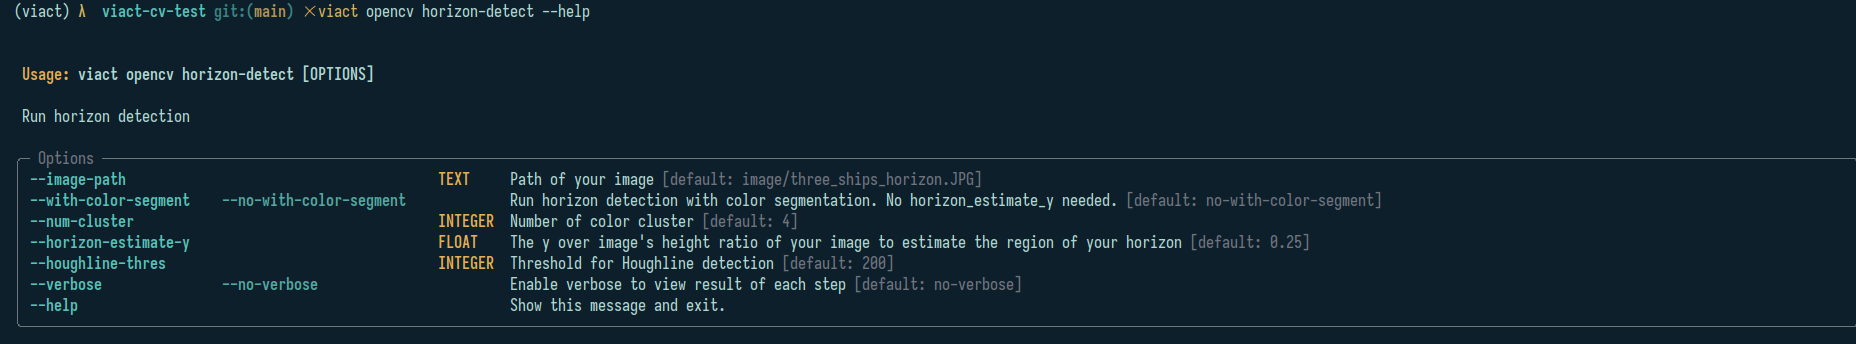
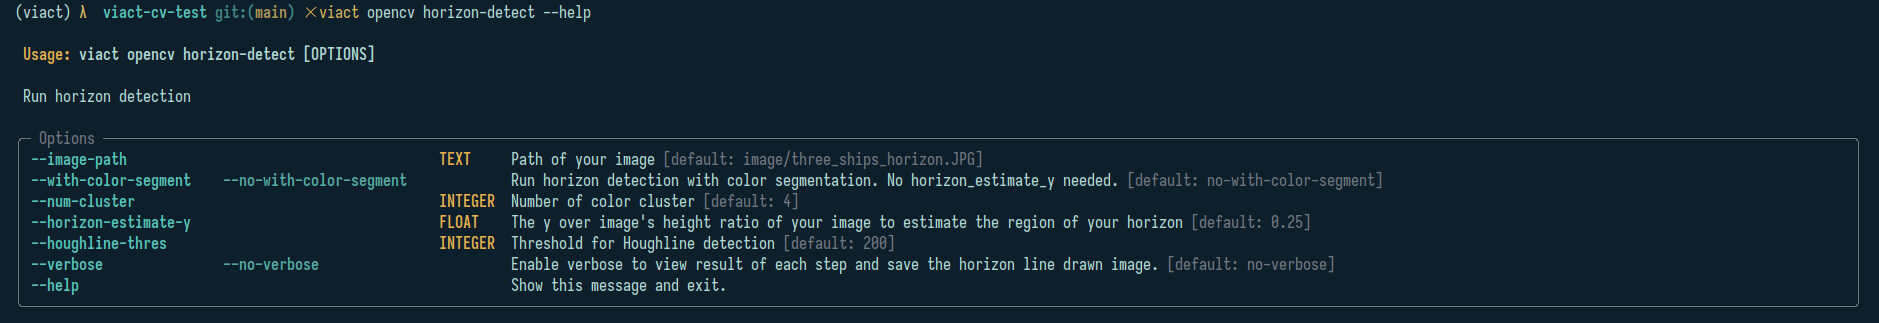
add readme

diff --git a/README.md b/README.md
@@ -1,1 +1,126 @@
 # viact-cv-test
+
+This repository contains the solution to the Computer Vision test from viAct.
+
+# Installation
+- To install the script, clone the repository, navigate to the `viact-cv-test` folder, and run the following command to install the script as a package:
+  
+    ```
+    pip install . 
+    ```
+
+- To view the help menu, run the `--help` option for each command, as shown in these images:
+  
+    ![Main menu help](image/docs/help-main.png "Main menu help")
+
+    ![Horizon detection command help](image/docs/help-horizon-detect.png "Horizon detection command help")
+
+    ![Ship detection command help](image/docs/help-ship-detect.png "Ship detection command help")
+
+    ![End-to-end detection help](image/docs/help-e2e-detect.png "End-to-end detection help")
+
+# Examples
+
+## With the provided image
+All default arguments are set to run on the provided image with minimal modifications.
+
+- **Detect horizon of the provided image**: 
+  - Command: 
+  ```
+  viact opencv horizon-detect --verbose
+  ```
+  - The results will include 2 images if `--verbose` is enable; one is the image with leveled horizon line with no futher visualization, the other include the drawn horizon line and grid view. 
+
+  ![Result with horizon line visualized](image/docs/three_ships_horizon_horizon_vis.png "Result with horizon line visualized")
+
+
+- **Detect ships of the provided image**: 
+  - Command: 
+  ```
+  viact opencv ship-detect --verbose
+  ```
+  - I would highly recommend using the result image with no extra visualization from `horizon-detect` as the input. 
+
+  ![Result with ships detected](image/docs/three_ships_horizon_horizon_ship_detected.png "Result with ships detected")
+
+
+- **End-to-end detection**: To view only the final result, use the end-to-end detection command for horizon leveling and ship detection. The final result is similar to that of ship detection.
+  - Command: 
+  ```
+  viact opencv e2e-detect
+  ```
+## Another test image
+
+For other images, you can modify the `--horizon-estimate-y` option if you can estimate the horizon position beforehand or use the `--with-color-segment` option for a more automatic but less accurate approach.
+
+- Detect horizon:
+  - Command: 
+  ```
+  viact opencv horizon-detect --image-path image/ship_new_test.jpg --with-color-segment --no-ship-loc-is-upper
+  ```
+  - Result: 
+  ![Result with horizon detection and grid from another image](image/docs/ship_new_test_horizon_vis.png "Result with horizon detection and grid from another image")
+
+- Detect ships: 
+  - Command: the option `--no-ship-loc-is-upper` needs enabling if the ships are below the horizon.
+
+  ```
+  viact opencv ship-detect --image-path result/ship_new_test_horizon.tiff --no-ship-loc-is-upper --verbose
+  ```
+  - Result: 
+  ![Result for ship detection on another image](image/docs/ship_new_test_horizon_ship_detected.png)
+
+# Methododology
+
+The solution primarily uses OpenCV for image processing. While training deep learning models to detect horizon lines and ships would be a more general approach, traditional image processing techniques suffice given the short time limit and lack of data.
+
+## Horizon detection
+Before detecting the horizon, users can choose between two methods for better estimation:
+1. **Image Splitting and Blurring:** Split the image into two parts and blur noisy areas such as waves and rocks. This requires prior knowledge of the horizon's relative position but provides more precision by allowing edge detection to focus on unblurred sections.
+2. **Color Clustering:** Enhance color differences by clustering sections. This method only requires the user to input the number of color clusters but provides a less accurate horizon line compared to the first approach.
+
+To detect the horizon, I use Canny edge detection and Hough Line transform on the preprocessed image's grayscale conversion:
+
+
+    ```python
+    gray_img = cv2.cvtColor(preprocessed_image, cv2.COLOR_BGR2GRAY)
+    ret, thresh = cv2.threshold(gray_img, 0, 255, cv2.THRESH_OTSU)
+    edges = cv2.Canny(thresh, 50, 150, apertureSize=5)
+
+    lines = cv2.HoughLines(
+        edges,
+        houghline_rho,
+        np.pi / 180,
+        houghline_thres,
+        )
+    ```
+For more information on horizon leveling and black background cropping, see `viact/horizon_detector.py`. 
+
+## Ship detection
+
+Ship detection follows a similar logic to the first horizon detection method. With the detected horizon line and user information about ship positions, regions containing ships are cropped for edge detection.
+
+The techniques involves detecting edges using the Canny algorithm on the grayscale image, applying morphology transformation, and finding contours. The implementation is as follows:
+    
+    ```python
+    gray = cv2.cvtColor(cropped_image, cv2.COLOR_BGR2GRAY)
+    ret, thresh = cv2.threshold(gray, 0, 255, cv2.THRESH_TOZERO)
+    edges = cv2.Canny(thresh, 50, 150, apertureSize=3)
+    kernel_size = (5, 5)
+
+    kernel = cv2.getStructuringElement(cv2.MORPH_RECT, kernel_size)
+    closed = cv2.morphologyEx(edges, cv2.MORPH_CLOSE, kernel)
+    contours, hierarchy = cv2.findContours(
+        closed, cv2.RETR_EXTERNAL, cv2.CHAIN_APPROX_SIMPLE
+    )
+    ```
+
+# Conclusion 
+
+The test was interesting. I would rate it a medium score of 3 out of 5.
+
+The test was completed in less than 3 days. If you encounter any errors while running the script, please let me know.
+
+
+
+
